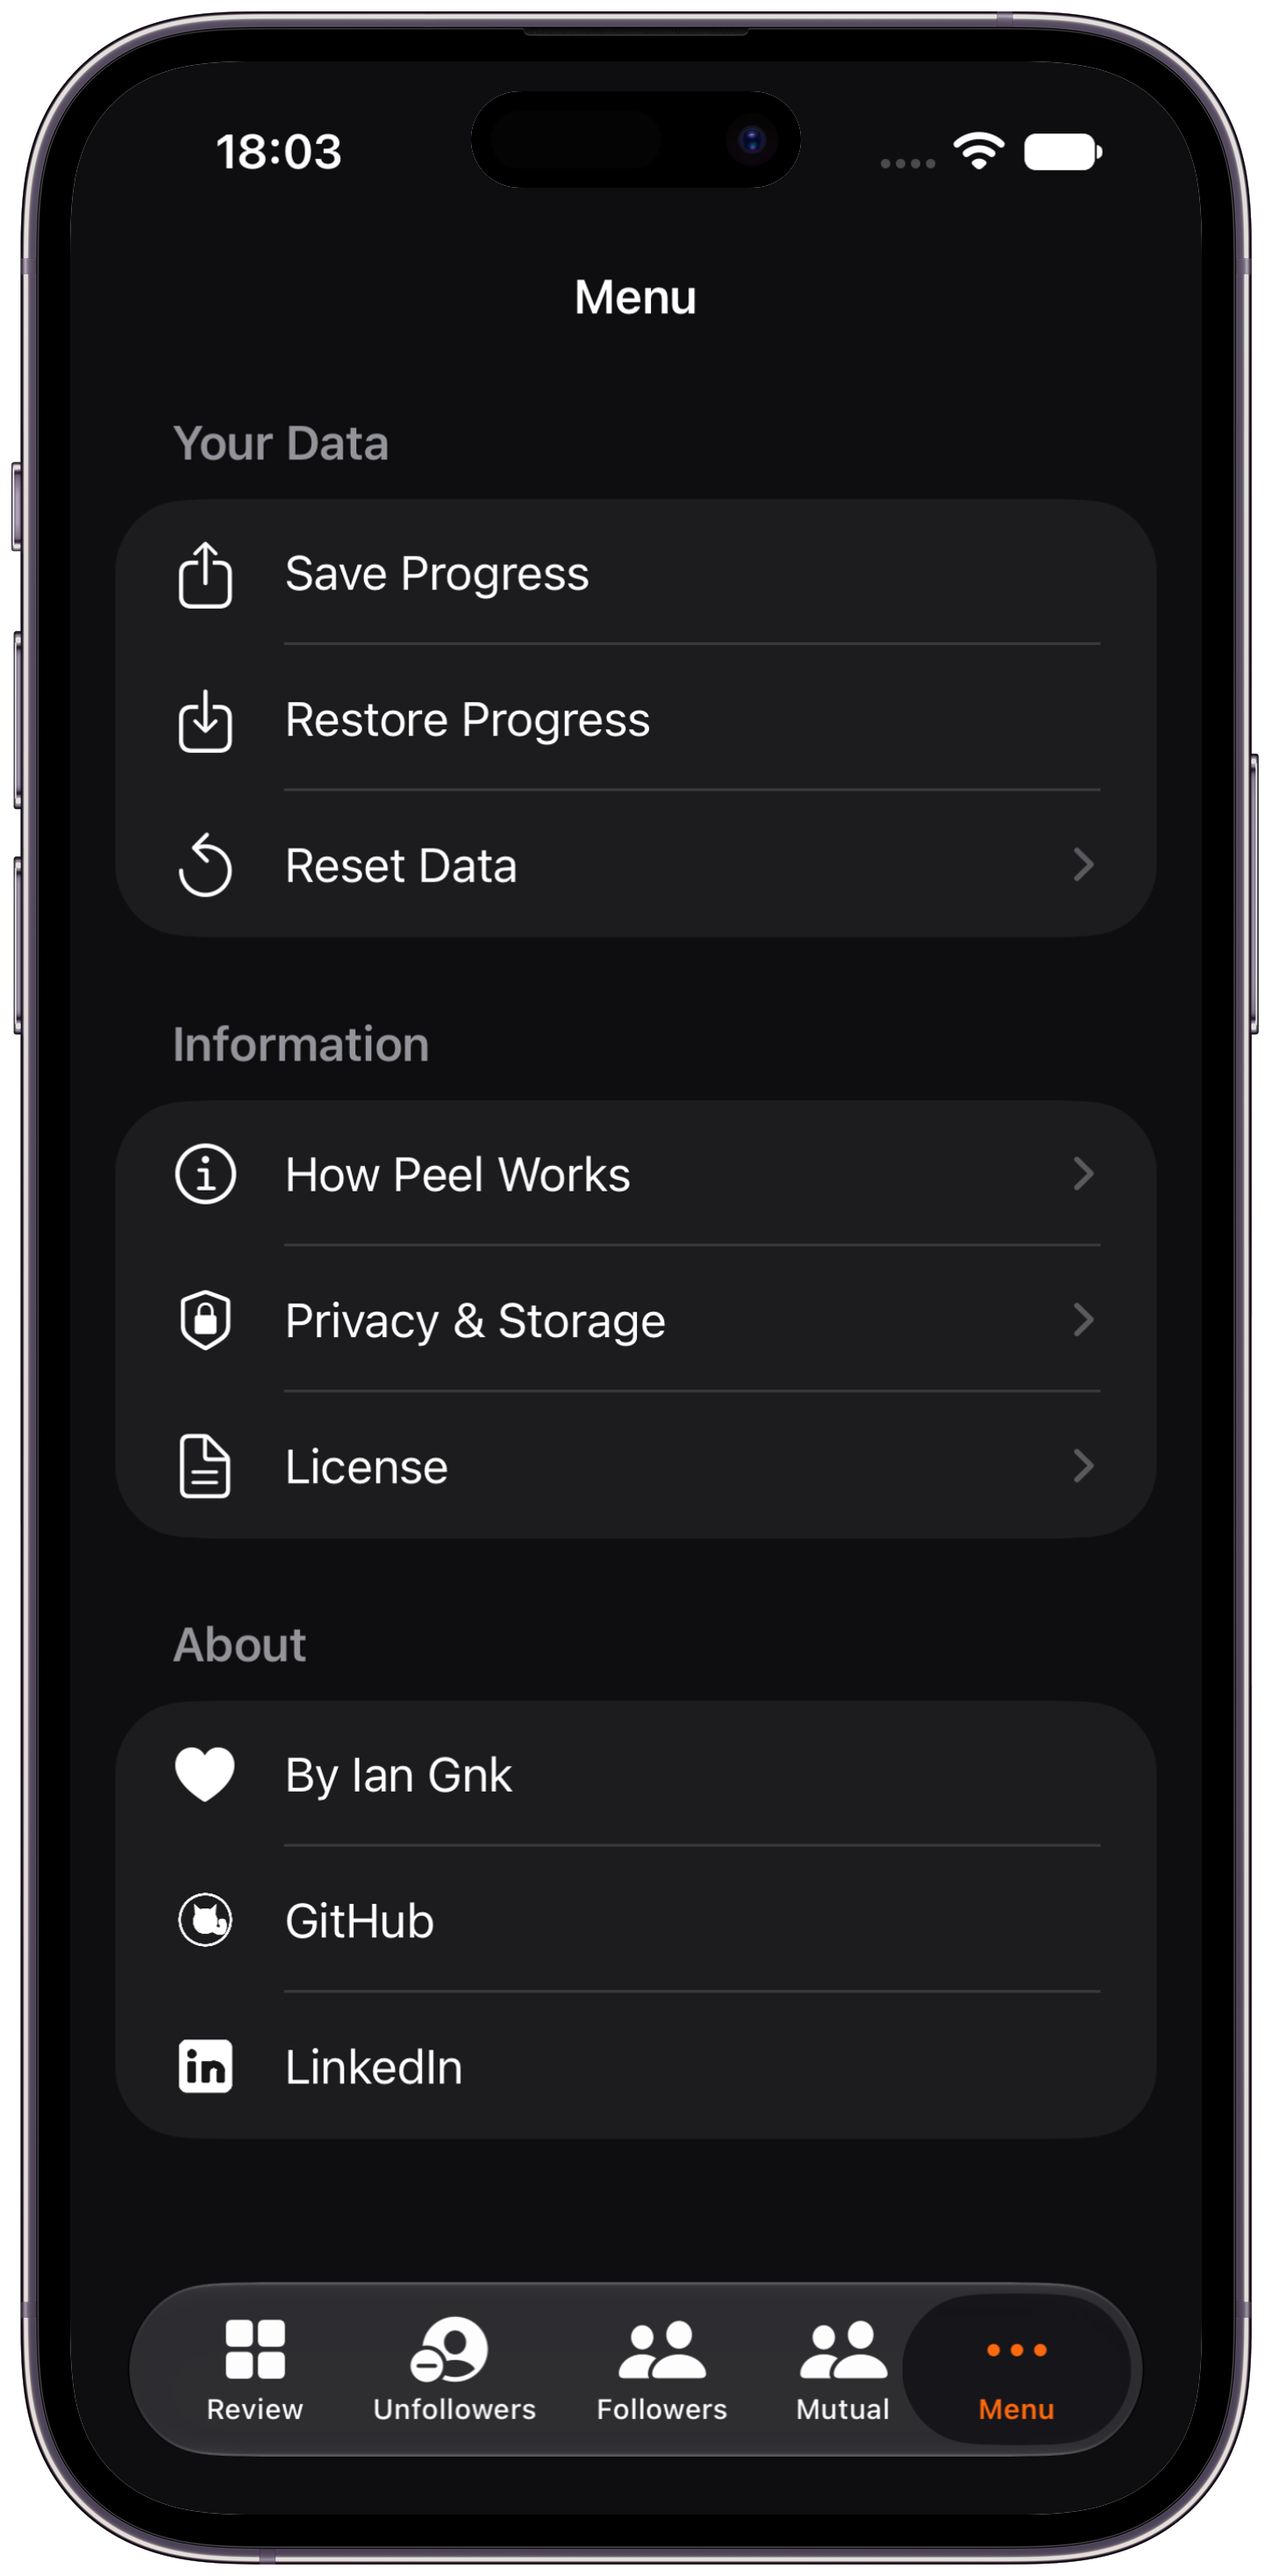
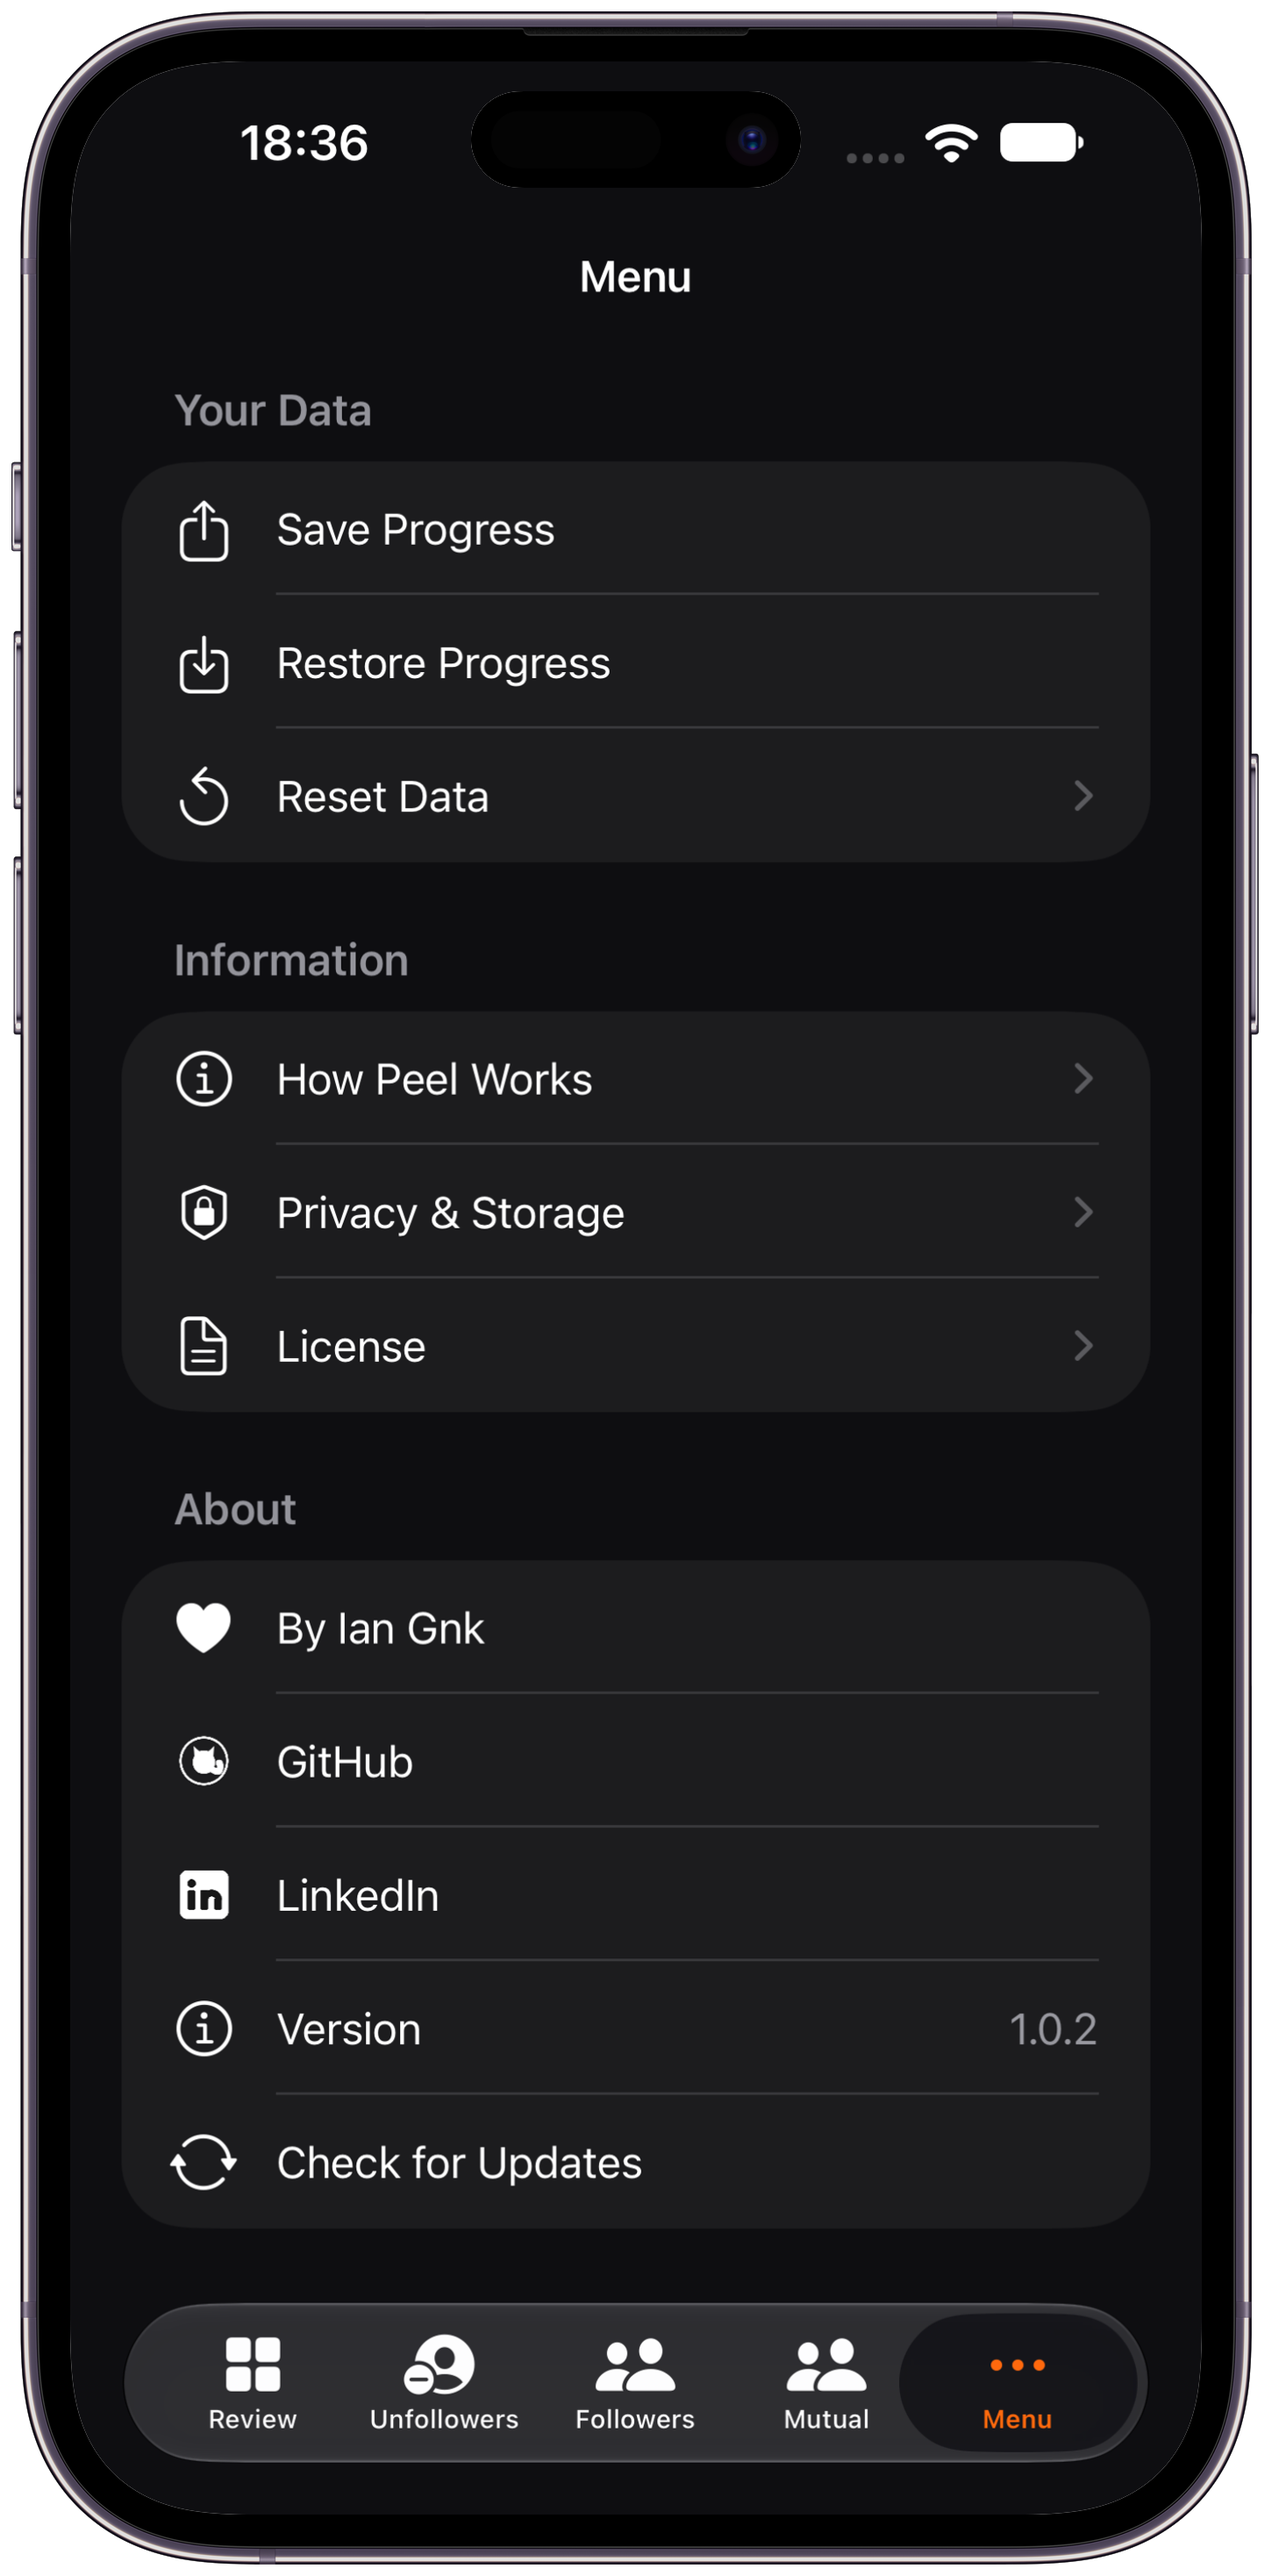
docs(readme): updated installation options and screenshots from the latest release

diff --git a/README.md b/README.md
@@ -92,6 +92,7 @@ Download the latest IPA
   <a href="https://github.com/gnkian/Peel/releases/latest"><img src="https://img.shields.io/badge/Download-IPA-F97316?style=for-the-badge&logo=apple&logoColor=white" alt="Download IPA" /></a>
 </p>
 
+### Free Sideloading (Requires refreshing every 7 days)
 Computer Installation (Easiest)
 
 <p align="center">
@@ -99,10 +100,19 @@ Computer Installation (Easiest)
   <a href="https://sideloadly.io/"><img src="https://img.shields.io/badge/Install_with-Sideloadly-3478F6?style=for-the-badge" alt="Install with Sideloadly" /></a>
 </p>
 
-Don't have a computer?
+Don't have a computer? (More technical)
 
 <p align="center">
   <a href="https://sideinstaller.net/"><img src="https://img.shields.io/badge/Install_with-SideInstaller-8250DF?style=for-the-badge" alt="Install with SideInstaller" /></a>
+</p>
+
+### Premium Sideloading (Does not require refresh up to a year)
+
+Have a Certificate? 
+
+<p align="center">
+  <a href="https://flarestore.app/signer/"><img src="https://img.shields.io/badge/Sign_with-FlareStore-F97316?style=for-the-badge" alt="Sign with FlareStore" /></a>
+  <a href="https://rustsign.com/"><img src="https://img.shields.io/badge/Sign_with-RustSign-B7410E?style=for-the-badge" alt="Sign with RustSign" /></a>
 </p>
 
 ### Requirements
@@ -147,9 +157,28 @@ Use AltStore Classic rather than AltStore PAL for individual IPA installation.
 
 [SideInstaller website](https://sideinstaller.net/)
 
-### Installation limitations
+### Known free Installation limitations
 
 - Free Apple Account signing typically requires renewal every seven days.
+
+### FlareStore
+
+1. Download the Peel IPA and save it to Files.
+2. Open the [FlareStore Web Signer](https://flarestore.app/signer/).
+3. Select the Peel IPA, your `.p12` certificate and matching `.mobileprovision` profile.
+4. Enter the certificate password if required, then select **Sign Application**.
+5. Follow the signer's installation instructions on your device.
+
+### RustSign
+
+For certificates managed through RustSign:
+
+1. Download the Peel IPA and save it to Files.
+2. Open [RustSign](https://rustsign.com/) and follow its Discord link.
+3. Use `/forge` in the bot channel to open your signing dashboard.
+4. Select **Upload App** and provide the Peel IPA.
+5. Follow the bot's signing and installation instructions for your registered device.
+
 
 ## Getting started with Xcode
 
